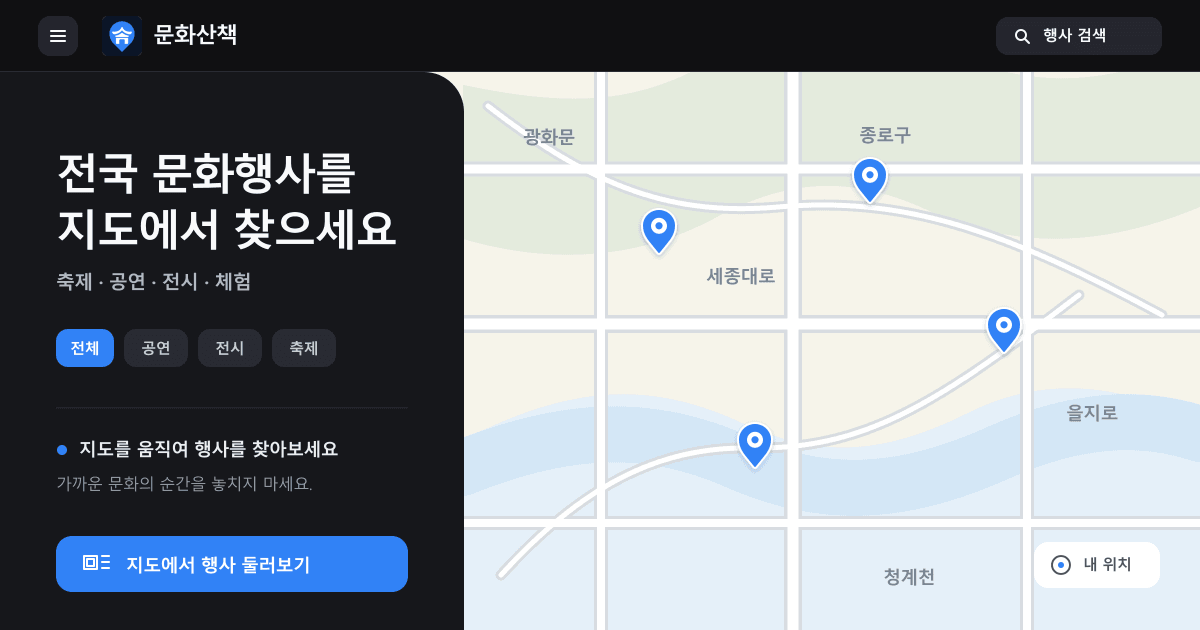
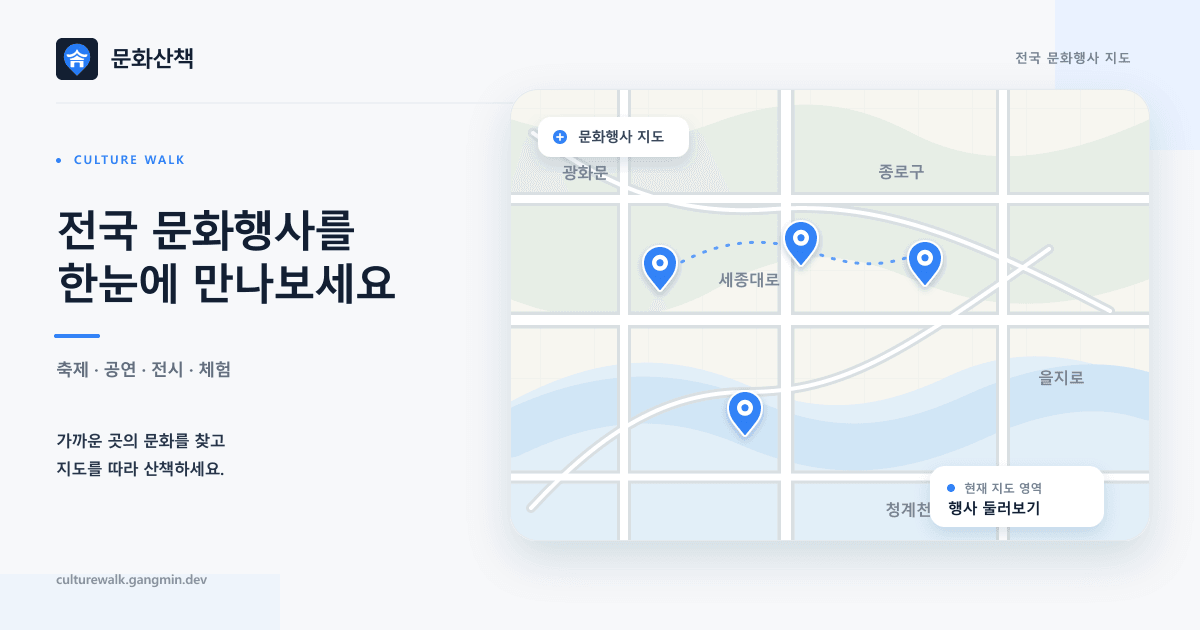
design: refresh OG social card

diff --git a/src/utils/siteMetadata.ts b/src/utils/siteMetadata.ts
@@ -4,7 +4,7 @@ const configuredSiteUrl = process.env.SITE_URL || process.env.APP_BASE_URL || 'h
 
 export const SITE_URL = configuredSiteUrl.replace(/\/+$/, '');
 export const SITE_NAME = '문화산책';
-export const OG_IMAGE_VERSION = '20260908-4';
+export const OG_IMAGE_VERSION = '20260908-7';
 export const OG_IMAGE_URL = `${SITE_URL}/assets/images/og-image.png?v=${OG_IMAGE_VERSION}`;
 export const SEARCH_THUMBNAIL_URL = `${SITE_URL}/assets/images/search-thumbnail.png?v=${OG_IMAGE_VERSION}`;
 
